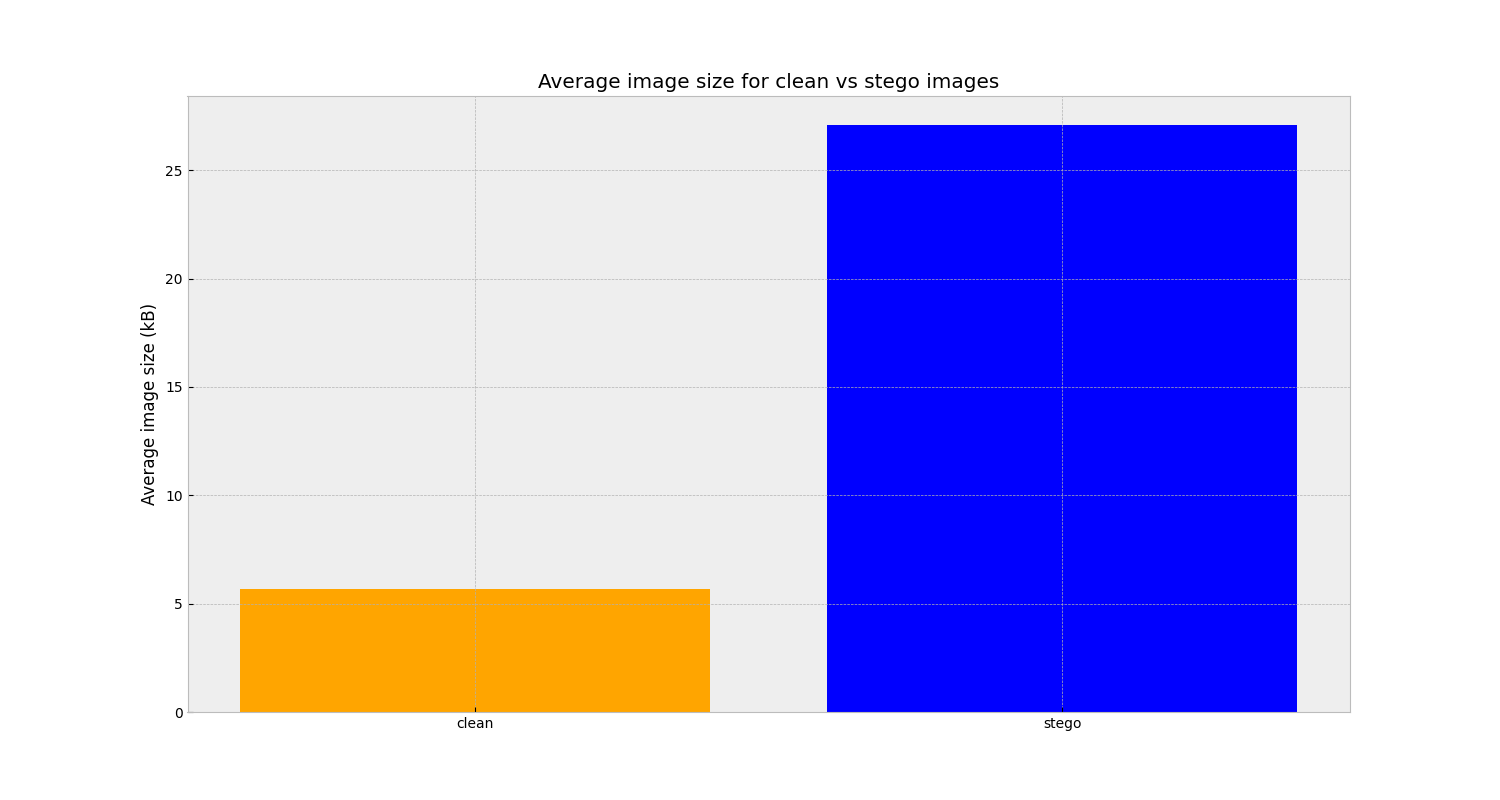
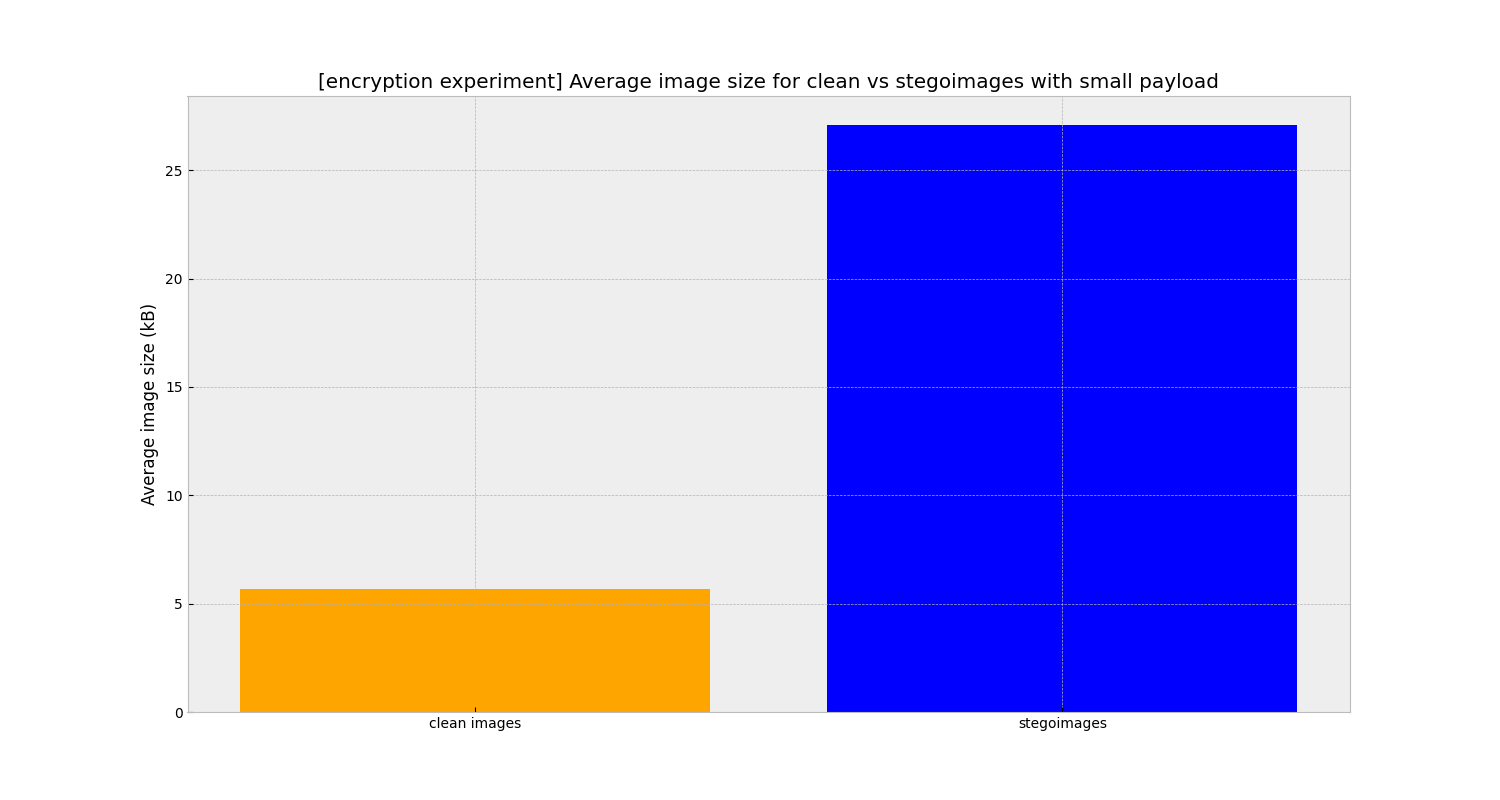
testing done

Changed region(s): [[0.2147, 0.0938, 0.828, 0.125], [0.6747, 0.875, 0.736, 0.9062], [0.3067, 0.875, 0.3373, 0.9062]]

diff --git a/client/visualise.py b/client/visualise.py
@@ -58,7 +58,7 @@ def plot_unfiltered_percentage_by_signature():
         plt.xticks([1, 2], ['signed', 'no signature + malicious signature'])
         plt.yticks([0, 10, 20, 30, 40, 50, 60, 70, 80, 90, 100])
         plt.ylabel('Unfiltered percentage')
-        plt.title('Unfiltered percentage for signed vs no signature + malicious signature websites')
+        plt.title('[encryption experiment] Unfiltered percentage for signed vs no signature + malicious signature websites')
         # plt.show()
         plt.savefig('client/test_results/unfiltered_percentage_by_signature.png')
         plt.close()
@@ -121,7 +121,7 @@ def plot_measurement_by_category(measurement):
         plt.vlines([3.5, 5.5, 7.5, 9.5, 12.5], ymin=0, ymax=1.15*max_avg, color='k', linestyles='dotted', linewidth=1)
         plt.xticks(range(1, len(bins) + 1), bins.keys())
         plt.ylabel('Average {} ({})'.format(measurement, 'kB' if measurement == 'size' else 's'))
-        plt.title('Average {} for each category'.format(measurement))
+        plt.title('[encryption experiment] Average {} for each category'.format(measurement))
         # plt.show()
         plt.savefig('client/test_results/{}_by_category.png'.format(measurement.replace(' ', '_')))
         plt.close()
@@ -155,7 +155,7 @@ def plot_image_size_differences():
         plt.bar(2, np.array(stego_image_sizes['bytes'], dtype=object).mean()/1000, color='b')
         plt.xticks([1, 2], ['clean images', 'stegoimages'])
         plt.ylabel('Average image size (kB)')
-        plt.title('Average image size for clean vs stegoimages with small payload')
+        plt.title('[encryption experiment] Average image size for clean vs stegoimages with small payload')
         # plt.show()
         plt.savefig('client/test_results/image_differences_bytes.png')
         plt.close()
@@ -167,13 +167,13 @@ def plot_image_size_differences():
         plt.bar(4, np.array(stego_image_sizes['pixels_height'], dtype=object).mean(), color='b')
         plt.xticks([1, 2, 3, 4], ['clean width', 'stego width', 'clean height', 'stego height'])
         plt.ylabel('Average image size (pixels)')
-        plt.title('Average image size for clean vs stegoimages')
+        plt.title('[encryption experiment] Average image size for clean vs stegoimages')
         # plt.show()
         plt.savefig('client/test_results/image_differences_pixels.png')
         plt.close()
 
 
-# plot_unfiltered_percentage_by_signature()
-# plot_measurement_by_category('access time')
-# plot_measurement_by_category('size')
-# plot_image_size_differences()
+plot_unfiltered_percentage_by_signature()
+plot_measurement_by_category('access time')
+plot_measurement_by_category('size')
+plot_image_size_differences()
